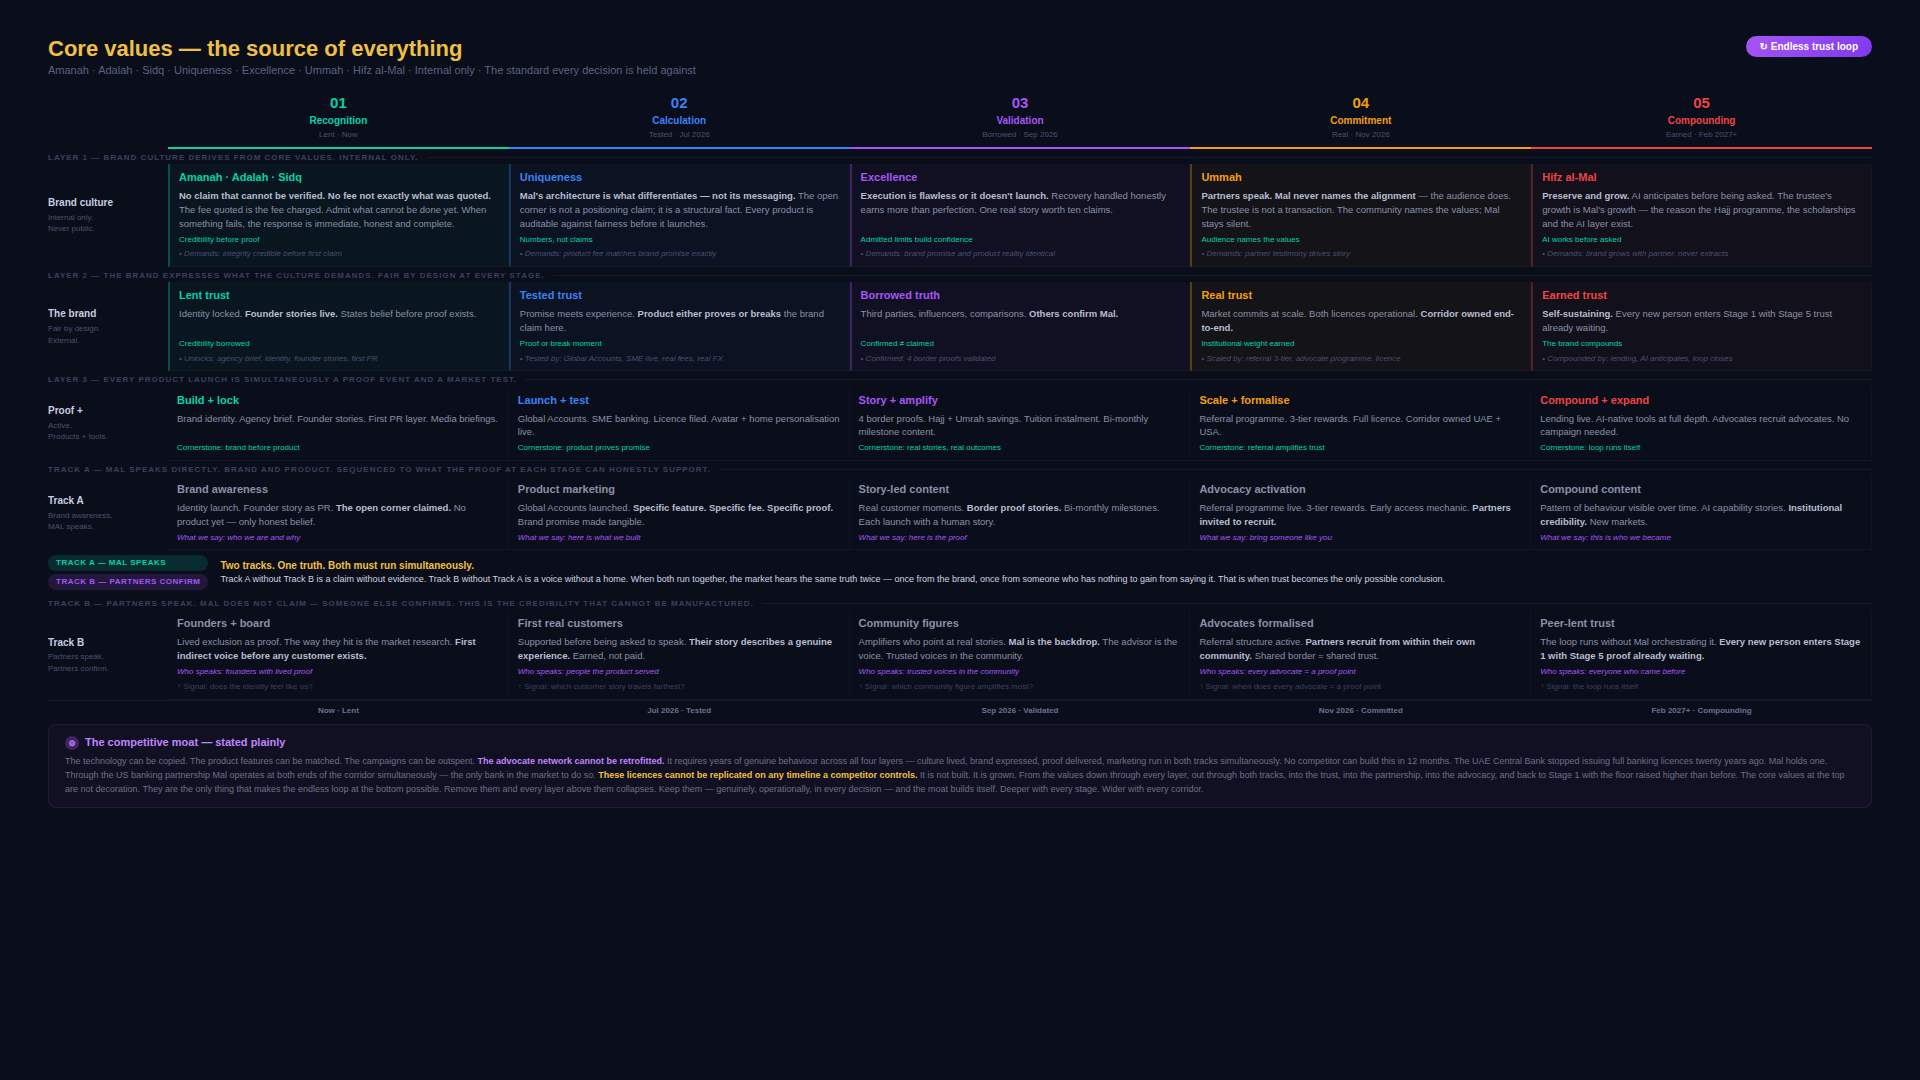
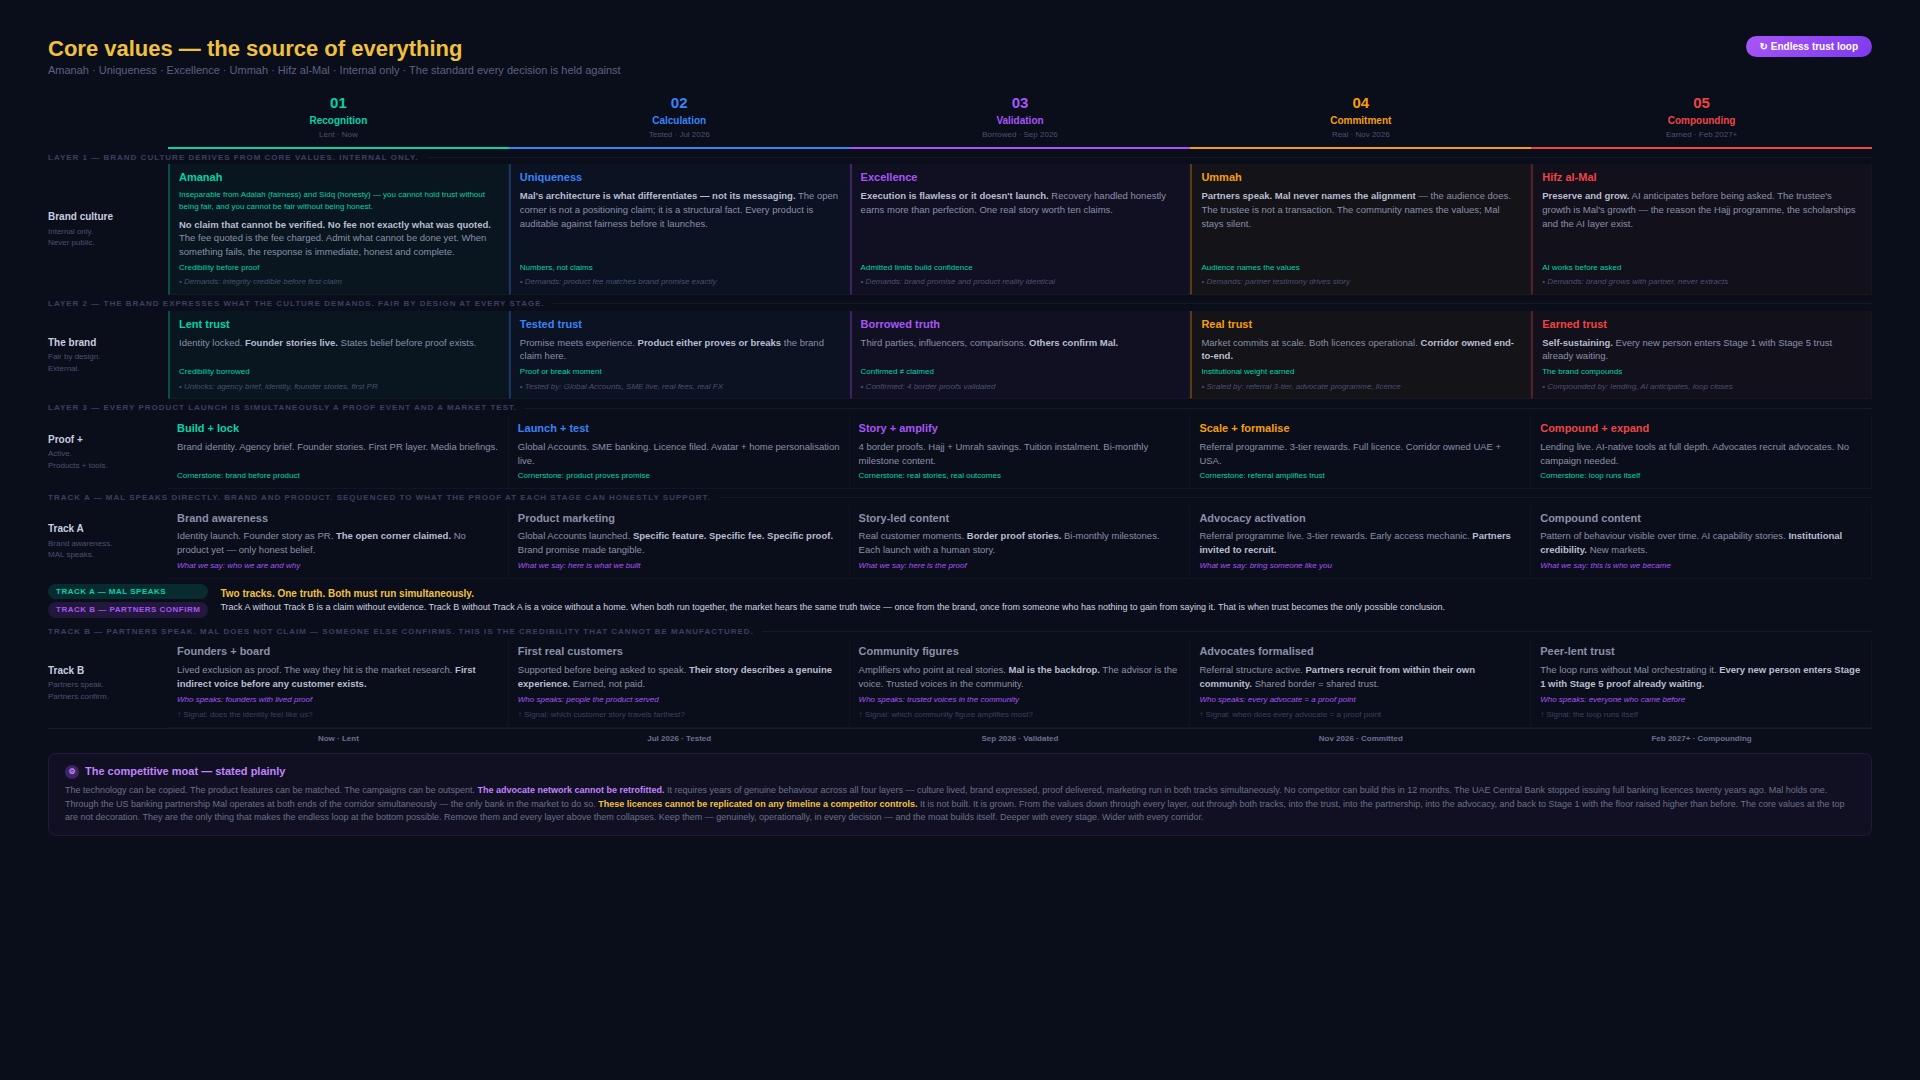
Label first value as Amanah with Adalah+Sidq explanation underneath
Simplifies the combined value label to just "Amanah" with a teal
subline explaining its inseparability from Adalah and Sidq.

Claude-Session: https://claude.ai/code/session_01KaW8XjLVKmY7hUcutsNrUM

Changed region(s): [[0.0, 0.1528, 0.9688, 0.7639], [0.0625, 0.0611, 0.3438, 0.0917], [0.0, 0.1833, 0.0625, 0.2139]]

diff --git a/slide11_core_values_redesign.html b/slide11_core_values_redesign.html
@@ -113,7 +113,7 @@
   <h1>Core values — the source of everything</h1>
   <div class="badge">↻ Endless trust loop</div>
 </div>
-<div class="sub">Amanah · Adalah · Sidq · Uniqueness · Excellence · Ummah · Hifz al-Mal · Internal only · The standard every decision is held against</div>
+<div class="sub">Amanah · Uniqueness · Excellence · Ummah · Hifz al-Mal · Internal only · The standard every decision is held against</div>
 
 <div class="grid">
 
@@ -131,7 +131,8 @@
   <div class="rl"><div class="t">Brand culture</div><div class="s">Internal only.<br>Never public.</div></div>
 
   <div class="c a1">
-    <div class="vt c1">Amanah · Adalah · Sidq</div>
+    <div class="vt c1">Amanah</div>
+    <div class="tx" style="font-size:8px; color:#00d4aa; margin-bottom:2px;">Inseparable from Adalah (fairness) and Sidq (honesty) — you cannot hold trust without being fair, and you cannot be fair without being honest.</div>
     <div class="tx"><strong>No claim that cannot be verified. No fee not exactly what was quoted.</strong> The fee quoted is the fee charged. Admit what cannot be done yet. When something fails, the response is immediate, honest and complete.</div>
     <div class="cs">Credibility before proof</div>
     <div class="dm">• Demands: integrity credible before first claim</div>
